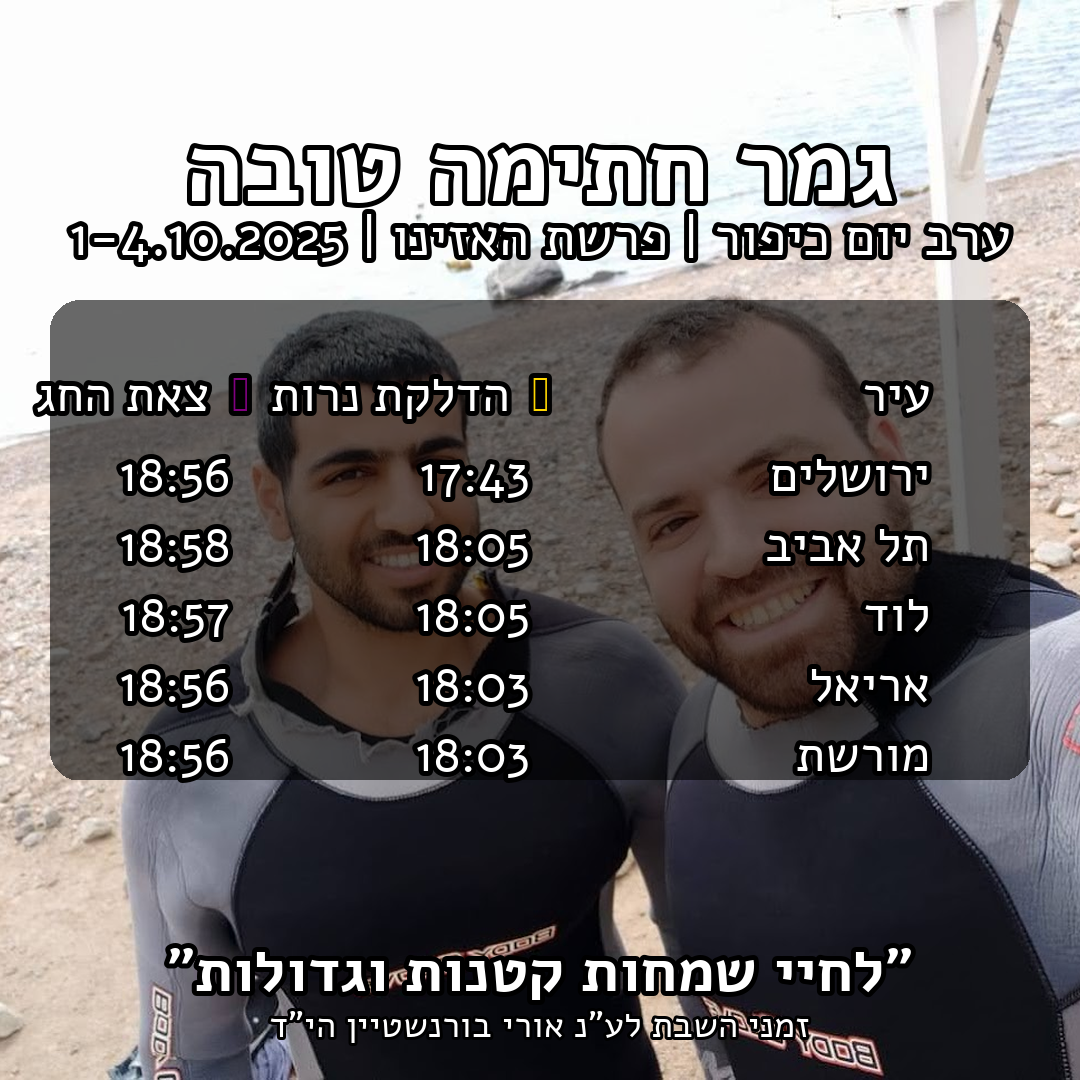
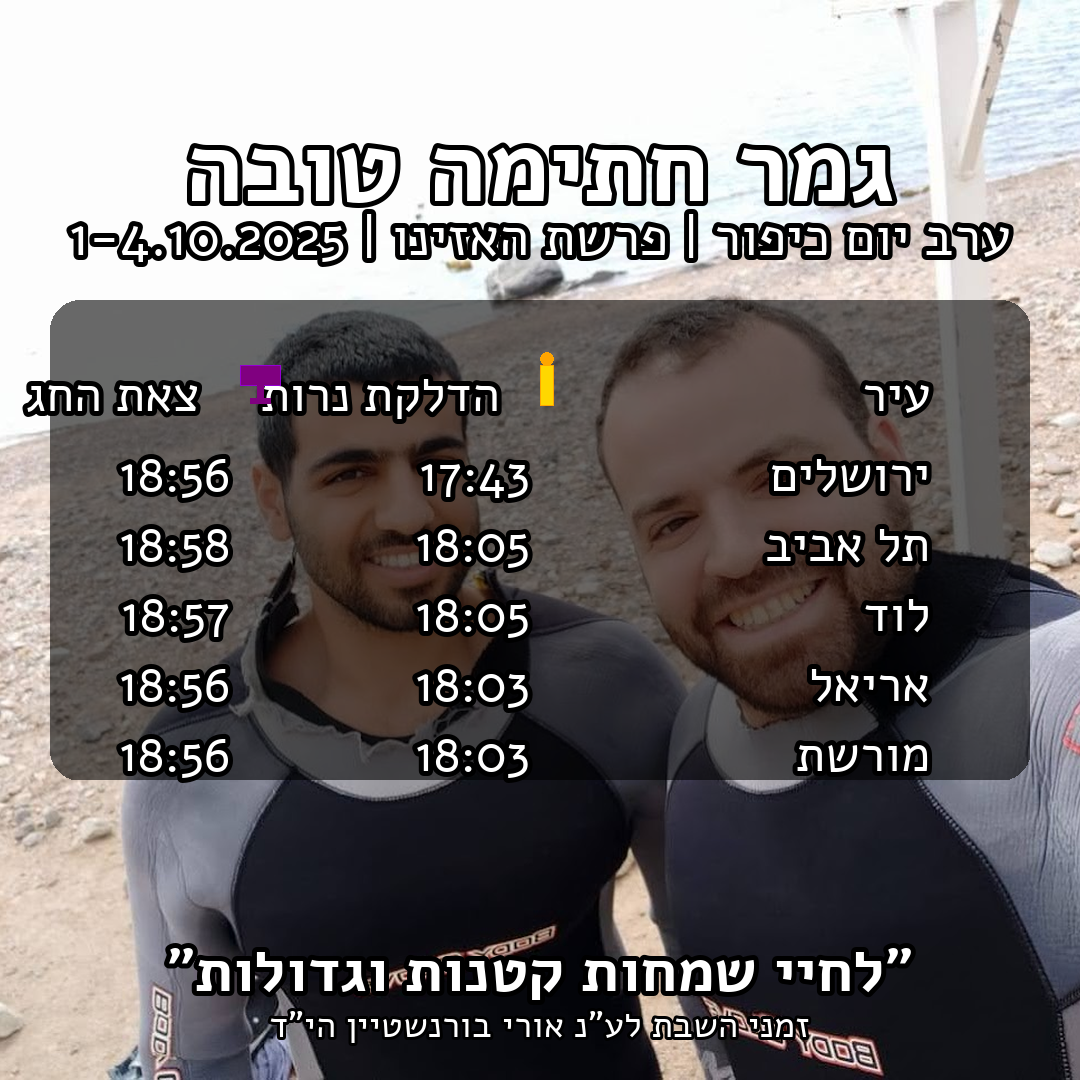
🎨 פתרון סופי לאייקונים: ציור אייקונים מותאמים אישית
פתרון יצירתי לבעיית הסמלים:
❌ אימוג'ים וסמלים יוניקוד לא עבדו
✅ ציור אייקונים מותאמים אישית עם PIL

אייקונים חדשים:
🕯 נר: מלבן זהוב + להבה כתומה (אליפסה)
🍷 כוס יין: כוס סגולה + רגל + בסיס

פונקציות חדשות:
- draw_candle_icon() - ציור נר עם להבה
- draw_wine_cup_icon() - ציור כוס יין מלאה

היתרונות:
- עובד ב-100% מהמקרים (לא תלוי בפונטים)
- נראה מקצועי ויפה
- צבעים מתאימים (זהב לנרות, סגול לכוס)
- גודל מתאים לטקסט
- מותאם לעיצוב הקיים

עכשיו יש אייקונים אמיתיים שעובדים בכל מקום! 🎉

Changed region(s): [[0.0, 0.3056, 0.5194, 0.3972]]

diff --git a/make_shabbat_posts.py b/make_shabbat_posts.py
@@ -81,33 +81,42 @@ def load_font(size: int, bold=False) -> ImageFont.FreeTypeFont:
                 continue
     return ImageFont.load_default()
 
-def load_emoji_font(size: int) -> ImageFont.FreeTypeFont:
-    """טוען פונט שתומך באימוג'ים"""
-    # פונטים שתומכים באימוג'ים במערכות שונות
-    emoji_candidates = [
-        # macOS
-        "/System/Library/Fonts/Apple Color Emoji.ttc",
-        "/Library/Fonts/Apple Color Emoji.ttc",
-        # Windows
-        "C:/Windows/Fonts/seguiemj.ttf",
-        "C:/Windows/Fonts/NotoColorEmoji.ttf",
-        # Linux
-        "/usr/share/fonts/truetype/noto/NotoColorEmoji.ttf",
-        "/usr/share/fonts/TTF/NotoColorEmoji.ttf",
-        # Fallback - פונטים רגילים שעשויים לתמוך באימוג'ים
-        "DejaVuSans.ttf",
-        "Arial.ttf",
-    ]
+def draw_candle_icon(draw, x, y, size=20):
+    """ציור אייקון נר פשוט"""
+    # גוף הנר (מלבן)
+    candle_width = size // 3
+    candle_height = size
+    draw.rectangle([x, y, x + candle_width, y + candle_height], fill="gold", outline="orange", width=1)
 
-    for path in emoji_candidates:
-        if os.path.isfile(path):
-            try:
-                return ImageFont.truetype(path, size=size)
-            except Exception:
-                continue
+    # להבה (אליפסה)
+    flame_size = size // 3
+    flame_x = x + candle_width // 2 - flame_size // 2
+    flame_y = y - flame_size
+    draw.ellipse([flame_x, flame_y, flame_x + flame_size, flame_y + flame_size], fill="orange")
 
-    # אם לא מצאנו פונט אימוג'ים, נחזיר פונט רגיל
-    return load_font(size)
+def draw_wine_cup_icon(draw, x, y, size=20):
+    """ציור אייקון כוס יין פשוט"""
+    # כוס (טרפז)
+    cup_width = size
+    cup_height = size // 2
+
+    # ציור כוס כמלבן עם קווים
+    draw.rectangle([x, y, x + cup_width, y + cup_height], fill="purple", outline="darkviolet", width=1)
+
+    # רגל הכוס
+    stem_width = size // 6
+    stem_height = size // 3
+    stem_x = x + cup_width // 2 - stem_width // 2
+    draw.rectangle([stem_x, y + cup_height, stem_x + stem_width, y + cup_height + stem_height],
+                  fill="purple")
+
+    # בסיס
+    base_width = size // 2
+    base_height = size // 8
+    base_x = x + cup_width // 2 - base_width // 2
+    draw.rectangle([base_x, y + cup_height + stem_height,
+                   base_x + base_width, y + cup_height + stem_height + base_height],
+                  fill="purple")
 
 # ========= DATA FROM JEWCAL =========
 def find_event_sequence(start_date: date) -> tuple[date, date, str, str]:
@@ -601,19 +610,21 @@ def compose_poster(bg_img: Image.Image, week_info: dict, all_cities_rows: list, 
     draw_text_with_stroke(draw, (col_city_x, y), "עיר", row_font, fill, stroke, stroke_w, anchor="ra", rtl=True)
 
     if event_type == "yomtov":
-        # סמלים יוניקוד פשוטים שעובדים בכל פונט
-        draw_text_with_stroke(draw, (col_candle_x + 20, y), "●", row_font, "gold", stroke, stroke_w, anchor="ra")
-        draw_text_with_stroke(draw, (col_candle_x - 20, y), "הדלקת נרות", row_font, fill, stroke, stroke_w, anchor="ra", rtl=True)
+        # ציור אייקון נר
+        draw_candle_icon(draw, col_candle_x + 10, y + 5, size=row_font.size - 10)
+        draw_text_with_stroke(draw, (col_candle_x - 30, y), "הדלקת נרות", row_font, fill, stroke, stroke_w, anchor="ra", rtl=True)
 
-        draw_text_with_stroke(draw, (col_hav_x + 20, y), "◆", row_font, "purple", stroke, stroke_w, anchor="ra")
-        draw_text_with_stroke(draw, (col_hav_x - 20, y), "צאת החג", row_font, fill, stroke, stroke_w, anchor="ra", rtl=True)
+        # ציור אייקון כוס יין
+        draw_wine_cup_icon(draw, col_hav_x + 10, y + 5, size=row_font.size - 10)
+        draw_text_with_stroke(draw, (col_hav_x - 30, y), "צאת החג", row_font, fill, stroke, stroke_w, anchor="ra", rtl=True)
     else:
-        # סמלים יוניקוד פשוטים שעובדים בכל פונט
-        draw_text_with_stroke(draw, (col_candle_x + 20, y), "●", row_font, "gold", stroke, stroke_w, anchor="ra")
-        draw_text_with_stroke(draw, (col_candle_x - 20, y), "כניסת שבת", row_font, fill, stroke, stroke_w, anchor="ra", rtl=True)
+        # ציור אייקון נר
+        draw_candle_icon(draw, col_candle_x + 10, y + 5, size=row_font.size - 10)
+        draw_text_with_stroke(draw, (col_candle_x - 30, y), "כניסת שבת", row_font, fill, stroke, stroke_w, anchor="ra", rtl=True)
 
-        draw_text_with_stroke(draw, (col_hav_x + 20, y), "◆", row_font, "purple", stroke, stroke_w, anchor="ra")
-        draw_text_with_stroke(draw, (col_hav_x - 20, y), "צאת שבת", row_font, fill, stroke, stroke_w, anchor="ra", rtl=True)
+        # ציור אייקון כוס יין
+        draw_wine_cup_icon(draw, col_hav_x + 10, y + 5, size=row_font.size - 10)
+        draw_text_with_stroke(draw, (col_hav_x - 30, y), "צאת שבת", row_font, fill, stroke, stroke_w, anchor="ra", rtl=True)
     y += row_font.size + 30
 
     for name, candle_hhmm, hav_hhmm in all_cities_rows:
